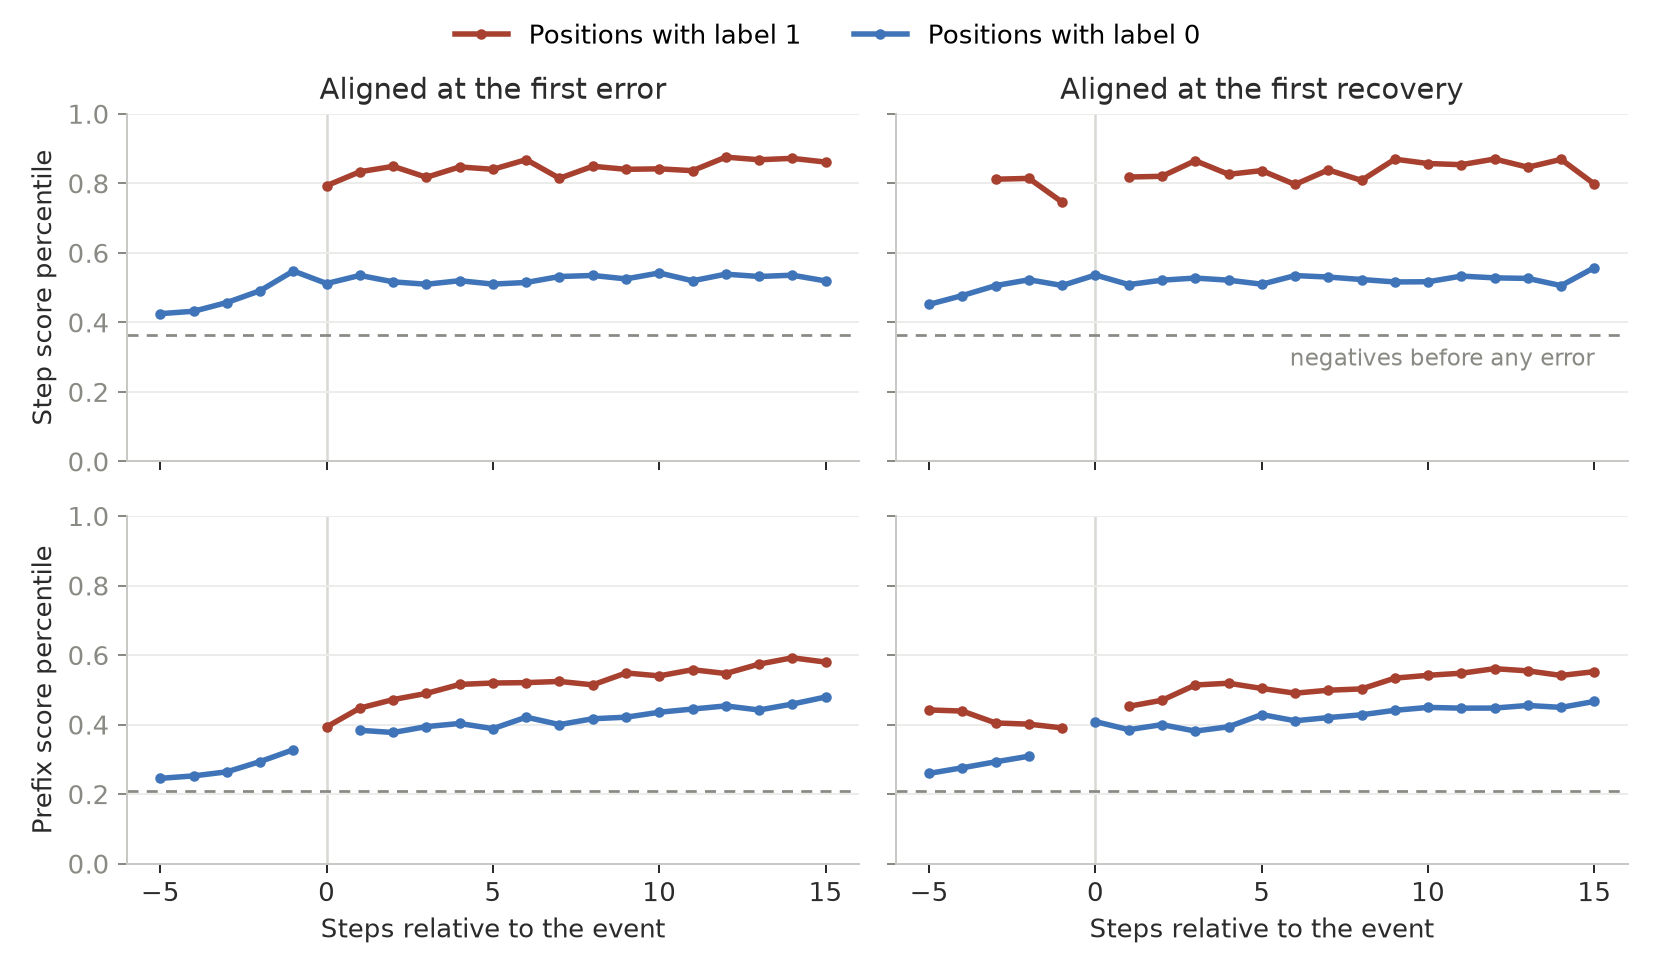
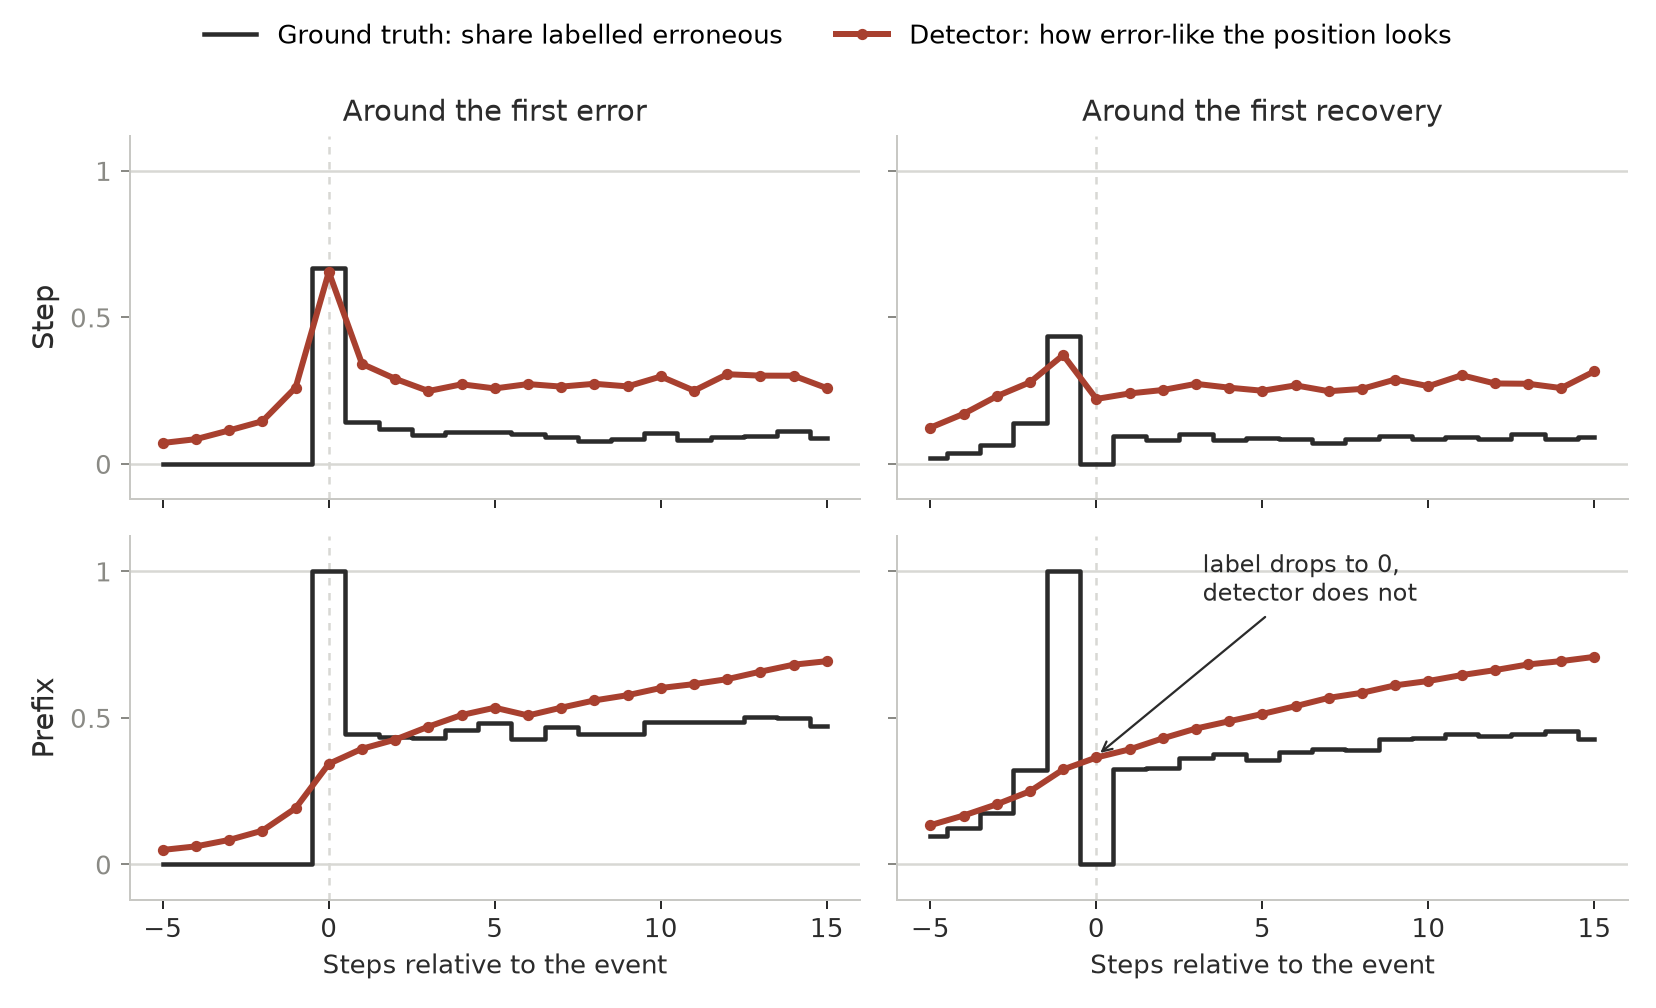
weekly: show ground-truth label against the rescaled Streaming score around the first error and recovery

diff --git a/weekly/scripts/2026-11-21_history_split.py b/weekly/scripts/2026-11-21_history_split.py
@@ -61,31 +61,36 @@ fig.savefig(OUT / "history_split.png", dpi=180)
 plt.close(fig)
 
 
-# ---------------------------------------------------------------- Figure 2: score dynamics
-dyn = json.loads((REPORTS / "score_dynamics.json").read_text())
+# ---------------------------------------------------------------- Figure 2: label vs detector around events
+dyn = json.loads((REPORTS / "score_dynamics2.json").read_text())
 K = np.array(dyn["offsets"])
-fig, axes = plt.subplots(2, 2, figsize=(9.2, 5.4), sharex=True, sharey=True)
+LABEL, DET = "#2b2b2b", "#a8402f"
+fig, axes = plt.subplots(2, 2, figsize=(9.2, 5.6), sharex=True, sharey=True)
 for r_i, level in enumerate(("Step", "Prefix")):
     for c_i, event in enumerate(("error", "recovery")):
-        ax = axes[r_i, c_i]; d = dyn[level]
-        ax.axhline(d["fresh"], color=MUTED, lw=1.1, ls=(0, (4, 3)), zorder=1)
-        ax.axvline(0, color=SOFT, lw=1, zorder=0)
-        for v, color, name in ((1, POS, "label = 1"), (0, NEG, "label = 0")):
-            m = np.array([np.nan if v_ is None else v_ for v_ in d[f"{event}_{v}"]["mean"]], float)
-            m[np.array(d[f"{event}_{v}"]["cells"]) < 3] = np.nan
-            ax.plot(K, m, color=color, lw=2.2, marker="o", ms=3.2, label=name, zorder=3)
-        ax.set_ylim(0, 1); ax.set_xticks(range(-5, 16, 5)); ax.grid(axis="y", color=GRID, lw=0.8)
+        ax = axes[r_i, c_i]; d = dyn[level][event]
+        for y0 in (0, 1):
+            ax.axhline(y0, color=SOFT, lw=1, zorder=0)
+        ax.axvline(0, color=SOFT, lw=1, ls=(0, (3, 3)), zorder=0)
+        def series(q):
+            m = np.array([np.nan if v is None else v for v in d[q]["mean"]], float)
+            m[np.array(d[q]["cells"]) < 3] = np.nan
+            return m
+        ax.step(K, series("label"), where="mid", color=LABEL, lw=1.8, label="Ground truth: share labelled erroneous", zorder=3)
+        ax.plot(K, series("score"), color=DET, lw=2.4, marker="o", ms=3.5, label="Detector: how error-like the position looks", zorder=4)
+        ax.set_ylim(-0.12, 1.12); ax.set_xticks(range(-5, 16, 5)); ax.set_yticks([0, 0.5, 1])
         ax.spines[["top", "right"]].set_visible(False)
         if r_i == 0:
-            ax.set_title("Aligned at the first error" if event == "error" else "Aligned at the first recovery",
-                         color=INK, fontsize=11.5)
+            ax.set_title("Around the first error" if event == "error" else "Around the first recovery", color=INK, fontsize=11.5)
         if c_i == 0:
-            ax.set_ylabel(f"{level} score percentile")
+            ax.set_ylabel(level, fontsize=11.5)
         if r_i == 1:
             ax.set_xlabel("Steps relative to the event")
-axes[0, 1].text(15, dyn["Step"]["fresh"] - 0.04, "negatives before any error", ha="right", va="top", fontsize=9, color=MUTED)
+axes[0, 0].set_yticklabels(["0", "0.5", "1"])
+axes[1, 1].annotate("label drops to 0,\ndetector does not", xy=(0, 0.37), xytext=(3.2, 0.9), fontsize=9.5, color=INK,
+                    arrowprops=dict(arrowstyle="->", color=INK, lw=0.9))
 h, l = axes[0, 0].get_legend_handles_labels()
-fig.legend(h, ["Positions with label 1", "Positions with label 0"], loc="upper center", ncol=2, frameon=False, bbox_to_anchor=(0.5, 1.0))
-fig.tight_layout(rect=(0, 0, 1, 0.95))
+fig.legend(h, l, loc="upper center", ncol=2, frameon=False, bbox_to_anchor=(0.5, 1.0))
+fig.tight_layout(rect=(0, 0, 1, 0.93))
 fig.savefig(OUT / "score_dynamics.png", dpi=180)
 plt.close(fig)

diff --git a/weekly/2026-11-21.md b/weekly/2026-11-21.md
@@ -31,7 +31,7 @@ where $`r`$ is the share of negatives after an error, and $`A_{\mathrm{pre}}`$, 
 - **More history in the readout, worse Step detection after an error.** Global Mean, whose Step input averages the entire prefix, drops to 0.61; the Step-local readouts of SAPLMA and Streaming stay at 0.84 and 0.82.
 - **It is not specific to our data.** On [CHAINED](https://huggingface.co/datasets/JlinZ/CHAINED) — different generators, annotator and Step definition — Streaming shows the same drop (Step −13 pt, Prefix −16 pt).
 
-![Streaming, mean within-combination score percentile of positions with label 1 and label 0 around the first error and the first recovery, averaged over the 15 combinations; dashed: negatives before any error.](assets/2026-11-21/score_dynamics.png)
+![Streaming around the first error and the first recovery, averaged over the 15 combinations. Black: share of positions labelled erroneous (ground truth). Red: how error-like the detector finds the position — its score rescaled per combination so that 0 is the mean score of correct positions before any error and 1 the mean score of erroneous positions.](assets/2026-11-21/score_dynamics.png)
 
-- **Scores do not respond to correction.** At the first recovery the Prefix label flips to 0, yet the score percentile stays put (0.39 one step before, 0.41 at recovery), far above negatives before any error (0.21).
-- **Step negatives stay elevated after an error.** They sit near 0.52 instead of 0.37 and do not return after recovery.
+- **The Prefix detector accumulates rather than tracks.** It barely reacts when the first error appears (0.34 while the label is 1), does not fall when the error is corrected (0.32 → 0.37 while the label drops from 1 to 0), and keeps rising with every step afterwards, to about 0.7.
+- **The Step detector does not reset.** Both the label and the score spike at the first error; afterwards the label falls back to about 0.1, while the score stays near 0.27 instead of returning to its pre-error level of about 0.1.
